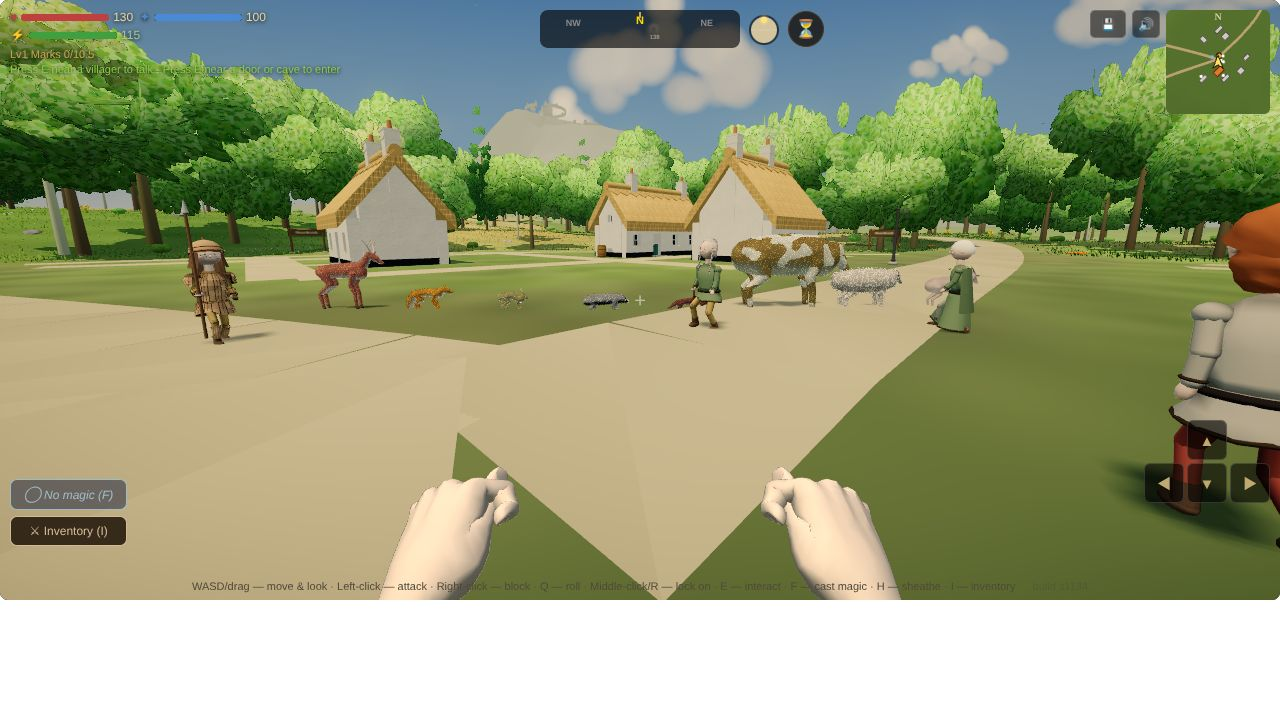
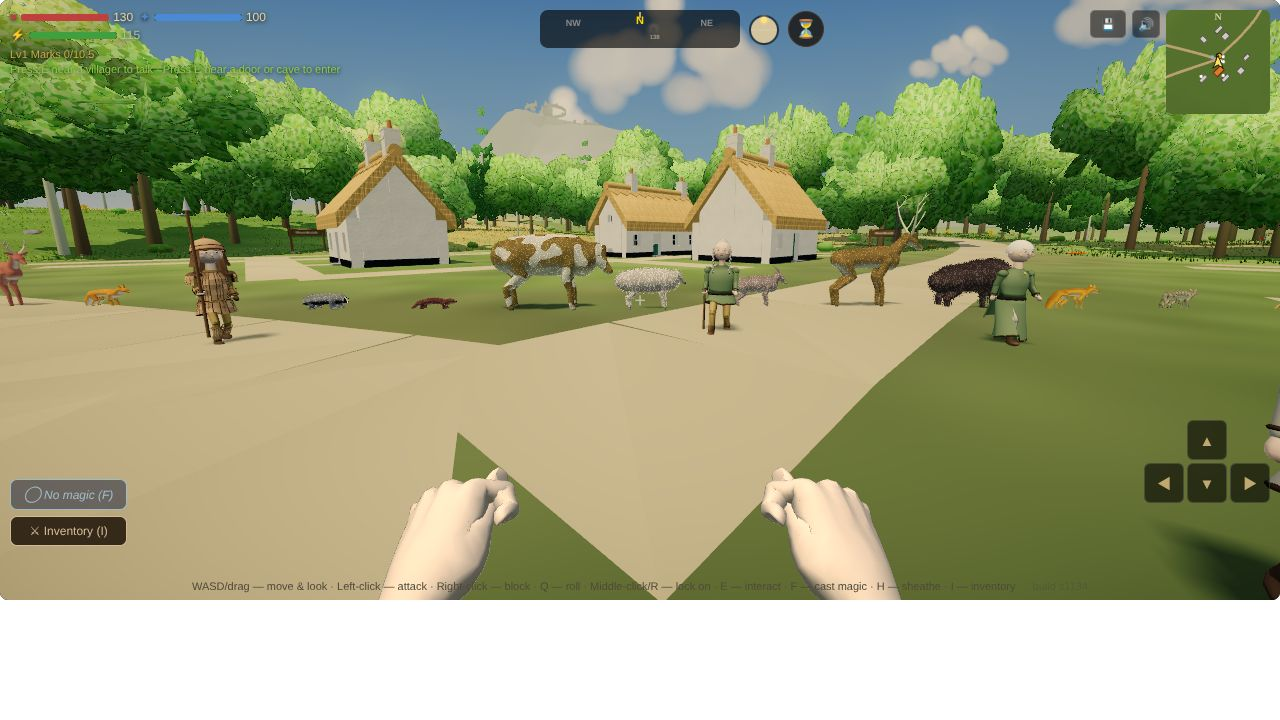
Bodies: Session 1722 — the Gatelands' own animals have bodies in the game
Elderstag, Gatefen Boar, Redspine Fox, Hollowcat and Greenward Stoat: wild WOLF_KINDS
dressed in the kit's GATELANDS plans at their hip heights. f4animals (13 animals) and
inspector green; catalogue +5 entries.

Claude-Session: https://claude.ai/code/session_019eFMMo11AthDjCdRLAKQE3

diff --git a/js/34-creatures.js b/js/34-creatures.js
@@ -35,6 +35,13 @@ const WOLF_KINDS={
   'Cow':       {coat:0x7a4d2e,saddle:0x5c361f,belly:0xdbd1bd,eye:0x0f0a08,horse:true,legK:1.8,legs:{fore:{root:[-.03,.03],a:[-.22,-.04],b:[-.22,.02],c:[-.23,.01]},hind:{root:[-.02,-.02],a:[-.2,.08],b:[-.2,-.1],c:[-.26,.01]}},hipY:.70,bulk:1.25,eyePos:[.05,.02,.03],world:1.78,farm:true},
   'Sheep':     {coat:0xdbd1b8,saddle:0xccc2a8,belly:0xc7bda3,eye:0x997f33,horse:true,legK:1.8,legs:{fore:{root:[-.03,.03],a:[-.22,-.04],b:[-.22,.02],c:[-.23,.01]},hind:{root:[-.02,-.02],a:[-.2,.08],b:[-.2,-.1],c:[-.26,.01]}},hipY:.70,bulk:1.1,eyePos:[.046,.02,.03],world:.935,farm:true},
   'Goat':      {coat:0x998a75,saddle:0x665747,belly:0xd6ccb8,eye:0xbf9933,horse:true,legK:1.8,legs:{fore:{root:[-.03,.03],a:[-.22,-.04],b:[-.22,.02],c:[-.23,.01]},hind:{root:[-.02,-.02],a:[-.2,.08],b:[-.2,-.1],c:[-.26,.01]}},hipY:.70,bulk:.85,eyePos:[.046,.02,.03],world:.80,farm:true},
+  // Session 1722 — the Gatelands' own (L3, OG-009; the kit's GATELANDS since Session 846), wild as the common set: the Elderstag on the deer's
+  // legs, the Gatefen Boar on the boar's body, the Redspine Fox, the Hollowcat and the Greenward Stoat on the wolf's
+  'Elderstag': {coat:0x754a2b,saddle:0x4e3019,belly:0xd8c8a8,eye:0x140c08,horse:true,legK:1.8,legs:{fore:{root:[-.03,.03],a:[-.22,-.04],b:[-.22,.02],c:[-.23,.01]},hind:{root:[-.02,-.02],a:[-.2,.08],b:[-.2,-.1],c:[-.26,.01]}},hipY:.70,bulk:.9,eyePos:[.048,.02,.03],world:1.66,wild:true},
+  'Gatefen Boar':{coat:0x3d3329,saddle:0x241e18,belly:0x5e5040,eye:0x2a1a0c,boar:true,neck:.35,bulk:1.1,world:1.76,wild:true},
+  'Redspine Fox':{coat:0xa84d1a,saddle:0x5c2a10,belly:0xeee4d0,eye:0x2a1a08,ruff:.85,ears:1.2,muzzle:1.1,lean:.8,bulk:.92,neck:.1,world:.9,wild:true},
+  'Hollowcat': {coat:0x806b52,saddle:0x4e4030,belly:0xd0c4ac,eye:0x9a8a20,ruff:.6,ears:1.1,muzzle:.6,lean:.85,bulk:.9,neck:.06,world:.81,wild:true},
+  'Greenward Stoat':{coat:0x805733,saddle:0x5c3c22,belly:0xece2c8,eye:0x0f0a08,ruff:.5,ears:.6,muzzle:.8,lean:.75,bulk:.85,neck:.05,world:.165,wild:true},
   // the world's dragon (S177): the wolf's legs and gait under a long neck, a long tail, horns and two wings of its own
   'Dragon':    {coat:0x5a2a1a,saddle:0x3a160c,belly:0xa87a48,eye:0xff8020,dragon:true,bulk:1.28,neck:-.15,eyePos:[.05,.04,.104],world:4.5} // S524 — world: the scale every dragon is built at in play, and the inspector shows it so; S546 — 4.5, about twice a man's height (Michael's B on #153, was 2.88)
 };
@@ -889,7 +896,7 @@ const HC_KINDS={'Wolf':{plan:'wolf'},'Snow Wolf':{plan:'wolf',own:true},'Dire Wo
   'Golem':{plan:'golem',own:true,person:true,merge:true,ik:true,tall:true,glow:[.42,.69,1],glowR:.02},
   'Gargoyle':{plan:'gargoyle',own:true,person:true,merge:true,ik:true,glow:[1,.31,.13],glowR:.032,glowAt:{f:.8,up:.55,out:.5},garg:true},
   'Wraith':{plan:'wraith',own:true,person:true,legless:true,rest:HC_WRAITH_REST},'Phantom':{plan:'phantom',own:true,person:true,legless:true,rest:HC_WRAITH_REST},
-  'Deer':{plan:'deer',ik:true},'Hind':{plan:'deer',own:true,ik:true,bare:true},'Red Fox':{plan:'redfox'},'Brown Hare':{plan:'brownhare'},'Badger':{plan:'badger'},'Otter':{plan:'otter'},'Cow':{plan:'cow',ik:true},'Sheep':{plan:'sheep',ik:true},'Goat':{plan:'goat',ik:true},
+  'Deer':{plan:'deer',ik:true},'Hind':{plan:'deer',own:true,ik:true,bare:true},'Red Fox':{plan:'redfox'},'Brown Hare':{plan:'brownhare'},'Badger':{plan:'badger'},'Otter':{plan:'otter'},'Cow':{plan:'cow',ik:true},'Sheep':{plan:'sheep',ik:true},'Goat':{plan:'goat',ik:true},'Elderstag':{plan:'stag',ik:true},'Gatefen Boar':{plan:'gatefenboar'},'Redspine Fox':{plan:'redspinefox'},'Hollowcat':{plan:'hollowcat'},'Greenward Stoat':{plan:'stoat'},
   'Shark':{plan:'reefshark',fish:true},'Whale':{plan:'stormwhale',fish:true},'Dolphin':{plan:'stormswift',fish:true},'Gull':{plan:'gull',fish:true,own:true,cell:.014},'Raven':{plan:'raven',fish:true,own:true,cell:.014},'Crow':{plan:'crow',fish:true,own:true,cell:.012},'Trout':{plan:'trout',fish:true,own:true,cell:.014},'Hen':{plan:'hen',fish:true,own:true,cell:.012},'Slime':{plan:'slime',fish:true},'Fire Elemental':{plan:'fireelemental',fish:true}};
 // the driver's joints and the kit's bones they move, parents first (the kit's front legs hang on spine3, the hind on spine0)
 const HC_MAP=[['hips','spine0'],['spine','spine1'],['neck','neck0'],['head','head'],['jaw','jaw'],['tail1','tail0'],['tail2','tail1'],['tail3','tail2'],

diff --git a/docs/backlog.md b/docs/backlog.md
@@ -551,7 +551,7 @@ Michael marked all 96 images of the intake on the review page: 63 KEEP and 33 NO
 
 ### L3. Wildlife (the biggest gap: no peaceful land animals today)
 - **The common set first** (look builder, `34-creatures.js`; OG-084): wolf, red fox, brown hare, raven, crow, boar, deer, badger, otter, trout, built once and recoloured by island. Peaceful by default; one name per animal. **Prototyped as plans in the kit, Session 843** (bodies builder; `creatures.js` `COMMON`, `creatures-common.jpg`): all ten build and walk; owed: the game (after F4, behind `?look=new`), ~~the wolf~~ in it since Session 1202 (the Wolf, the Snow Wolf, the Dire Wolf; `f4wolves`), ~~the boar~~ since Session 1251 (the Boar foe's body, and the Mark's bear in the Cave Bear's brown as the Cave Bear's; `f4beasts`), ~~the Ash Hound~~ since Session 1274 (the kit's own `ashhound`: the wolf leaner and ash-grey, eyes lit, the embers a broken seam down the back; `f4beasts`, `f4wolves`), the peaceful ones still owed (they need a spawn, the systems builder's; **asked, Session 1687**, DECISION #984: where, how many, what they do on seeing you, and whether you can hunt them; A, present and huntable, recommended); Michael's A, present and huntable); ~~their bodies in the game~~ — done, Session 1704 (the Deer, the Red Fox, the Brown Hare, the Badger and the Otter: `buildAnimal(name,key)` in `34-creatures.js`, the kit's own plan each at its size in metres, keyed `wild:<key>`; `f4animals`; half the deer hinds by key, Session 1706), so the spawn is the systems builder's to call; ~~the spawn~~ — done, Session 1707 (`tickWildSpawn` in `88-world-ticks.js`: a chunk within 150 m rolls one group or none by its id and biome, off pads and roads; `tickWildOne` in `42-zone-enemies.js`: they graze, wander and run 40 m from your sight or sound; one blow kills, a deer 2 to 4 meat, a hare 1; `wildlife`); ~~the raven and the crow~~ — done, Sessions 1710 (their body, `buildBird`) and 1716 (in the spawn, carried from #1008 where it was first numbered 1711: crows on fields and shore, ravens on moor and tundra; startled they take off to 8–14 m, fly 60 m and land; aloft out of a blade's reach, an arrow must meet their height; `wildlife`); ~~the trout's body~~ — done, Session 1712 (`buildAnimal('Trout', key)`, no driver, a 120-triangle stand-in and the kit's trout near, 4,156 triangles, its beat by the water its group covers; `f4animals`), its spawn in the rivers the systems builder's (**asked, Session 1718**, DECISION #1014: how you take one; A, by hand while swimming as at sea or struck from the bank, recommended); ~~the island recolourings~~ — done, Session 865 (`COATS`, a genome's `island`); ~~the badger's face stripes~~ — done, Session 845 (a face mask in the kit). ~~Their feet on a slope (`character-builder.md`, B5)~~ — done, Session 1547 (`hcGround`: each toe on the ground under it by a two-bone reach, the body lowered when a downhill leg is straight; the bear 17 → 3 cm on a 0.20 slope; `f4beasts`).
-- **The Gatelands' fifteen** (OG-009): Elderstag, Gatefen Boar (roots up forgotten paths), Redspine Fox, otter, heron, badger, Hollowcat, stoat, Crag Hawk, Marsh Frog, River Pike, Stonecrawler, Mire Snake, Lantern Beetle (glows near ruins; an ingredient); a capercaillie in place of the turkey. **All fifteen are plans in the kit, Session 846** (bodies builder; `creatures.js` `GATELANDS`, `creatures-gatelands.jpg`); owed: the game, after F4; ~~the Hollowcat sitting with its forefeet together and its tail wrapped round~~ — done, Sessions 1126 and 1130 (`sitTuck`, `sitWrap`; the Sunspire Lynx too, the Stormlynx's bobtail not).
+- **The Gatelands' fifteen** (OG-009): Elderstag, Gatefen Boar (roots up forgotten paths), Redspine Fox, otter, heron, badger, Hollowcat, stoat, Crag Hawk, Marsh Frog, River Pike, Stonecrawler, Mire Snake, Lantern Beetle (glows near ruins; an ingredient); a capercaillie in place of the turkey. **All fifteen are plans in the kit, Session 846** (bodies builder; `creatures.js` `GATELANDS`, `creatures-gatelands.jpg`); owed: the game, after F4: ~~the Elderstag, the Gatefen Boar, the Redspine Fox, the Hollowcat and the Greenward Stoat~~ have bodies in it since Session 1722 (`buildAnimal`, wild, on the wolf's driver; `f4animals`; the spawn is the systems builder's), the heron, the hawk and the capercaillie (the birds' path, as the hen), the pike (the trout's), the Stonecrawler and the frog (sprawling legs the wolf's driver has not got), the snake and the beetle still owed; ~~the Hollowcat sitting with its forefeet together and its tail wrapped round~~ — done, Sessions 1126 and 1130 (`sitTuck`, `sitWrap`; the Sunspire Lynx too, the Stormlynx's bobtail not).
 - **The Mark's fifteen** (OG-031): Icehorn (horns that moan in the wind), Ironpine Elk, Stormlynx, Skyraven, Craghorn Ram, Glacial Marmot, Stormshrike, Snowleap Hare (coat by season), Riverjaw Salmon (leaps the falls), Tundra Grouse, Icecrab; Stonefang Wolf and Frostreach Bear as reskins of the Snow Wolf and Cave Bear. **All fifteen are plans in the kit, Session 847** (bodies builder; `creatures.js` `MARK`, `creatures-mark.jpg`); owed: the game, after F4.
 - **Aurenne's fifteen** (OG-030): Duneskimmer, Terrace Ram, Oasis Hare, Scarlet Ibis, Mirage Fox, Cliffswift, Amber Shellcrab (harvestable), Cypress Stalker, Glasswing Moth (an ingredient), Sunbeak Vulture, Spined Gekko; the Saltspine Monitor hostile; the Dunescorpion as the Sand Scorpion's skin; the Sand Wyrm as a set piece known by its funnels. **Fourteen are plans in the kit, Session 848** (bodies builder; `creatures.js` `AURENNE`, `creatures-aurenne.jpg`); owed: the game, after F4; ~~the Glasswing Moth~~ — done, Session 864 (a moth's glass wings in the kit), so all fifteen are plans.
 - **The strange beasts** (OG-040): the Crownstag, the Mossback (a tortoise carrying a garden), the Bellthroat (its call at dusk), the Lanternfox, the Thornrunner; the Shatterhorn, the Frostmane (a pack beast), the Glasswing, the Stonejaw, the Stormplume; the Redcrest, the Sunfan, the Mineprowler, the Sailshell. Wonder without menace, mostly peaceful. A few have six legs, and that is ordinary (Michael's 9 A). **All fourteen are plans in the kit, Session 853** (bodies builder; `creatures.js` `STRANGE`, `creatures-strange.jpg`): six from Sessions 773 to 775 and eight new (the Crownstag, the Lanternfox, the Thornrunner, the Frostmane, the Glasswing, the Stonejaw, the Redcrest, the Sunfan); owed: the game, after F4.

diff --git a/docs/devlog/1722.md b/docs/devlog/1722.md
@@ -1,0 +1,27 @@
+## v80 — Session 1722 — the Gatelands' own animals: the Elderstag, the Gatefen Boar, the Redspine Fox, the Hollowcat, the Greenward Stoat
+The bodies builder's run of 2 Nov, its fourth item. L3's Gatelands' fifteen (OG-009) have been plans in the kit since Session 846, and the
+systems builder's spawn (S1707, Michael's A on #984) rolls the common set by biome. The Gatelands are the home island, so its own animals
+are the next family to give a body in the game. Five of the fifteen stand on four legs the wolf's driver can move; this session gives them
+bodies, as S1704 did the common set.
+
+**The change** (`34-creatures.js`).
+- Five new `WOLF_KINDS`, all `wild` (so `buildAnimal` builds them and their kit bodies are keyed `wild:<key>`): **Elderstag** on the deer's
+  long legs, **Gatefen Boar** on the boar's driver body (`boar`), and **Redspine Fox**, **Hollowcat** and **Greenward Stoat** on the wolf's
+  legs. The driver's coats are the plans' palettes; `world` stands each kit body at its own hips: 1.15 m, 0.69, 0.35, 0.32 and 0.066.
+- Five `HC_KINDS` entries straight to the kit's plans (`stag`, `gatefenboar`, `redspinefox`, `hollowcat`, `stoat`); the stag with the hoof
+  bend (`ik`). The Hollowcat's sitting poses (`sitTuck`, `sitWrap`, S1126 and S1130) are the kit's and come with it when a rule sits it.
+- The inspector's *On the wolf kit* section gains the five (`docs/inspector-catalogue.json` rewritten by `inspector`).
+
+The names are the plans' (the canon names none of them). Which biome holds which, and how many, is the spawner's: these are bodies only.
+
+### Verified (headless Chromium)
+`f4animals` 1/1, 17 checks green, the line now thirteen animals (2.5 m apart). Built within 180 ticks, no failures, 119 ms each. The
+Elderstag 30 bones and 55,080 triangles (antlers and fur), the Gatefen Boar 29 and 24,676, the Redspine Fox 32 and 35,496, the Hollowcat
+31 and 22,020, the Greenward Stoat 30 and 28,652. Hips 0 m from the driver's, at 1.147, 0.685, 0.350, 0.320 and 0.065 m (the kit's own
+1.145, 0.686, 0.350, 0.321, 0.066). Against a 1.78 m man the tops at 0.97 (the stag's antlers), 0.66, 0.29, 0.25 and 0.07. Walked at
+1 m/s the stag, the boar, the fox and the cat trot and the stoat gallops; the bones move by 0.53–0.95, the lowest toe within 2.1 cm of the
+ground (the boar's). `parsecheck` clean. Picture: `docs/prototypes/f4/f4-animals.jpg` (all thirteen on Dunmore's green).
+
+### Needs eyes
+The Elderstag is the kit's full-size stag (the deer is it at .74): a big beast with its antlers at a man's height. Whether the Gatefen
+Boar reads apart from the common boar at play distance (darker, a heavier mane), or wants a feature of its own.
